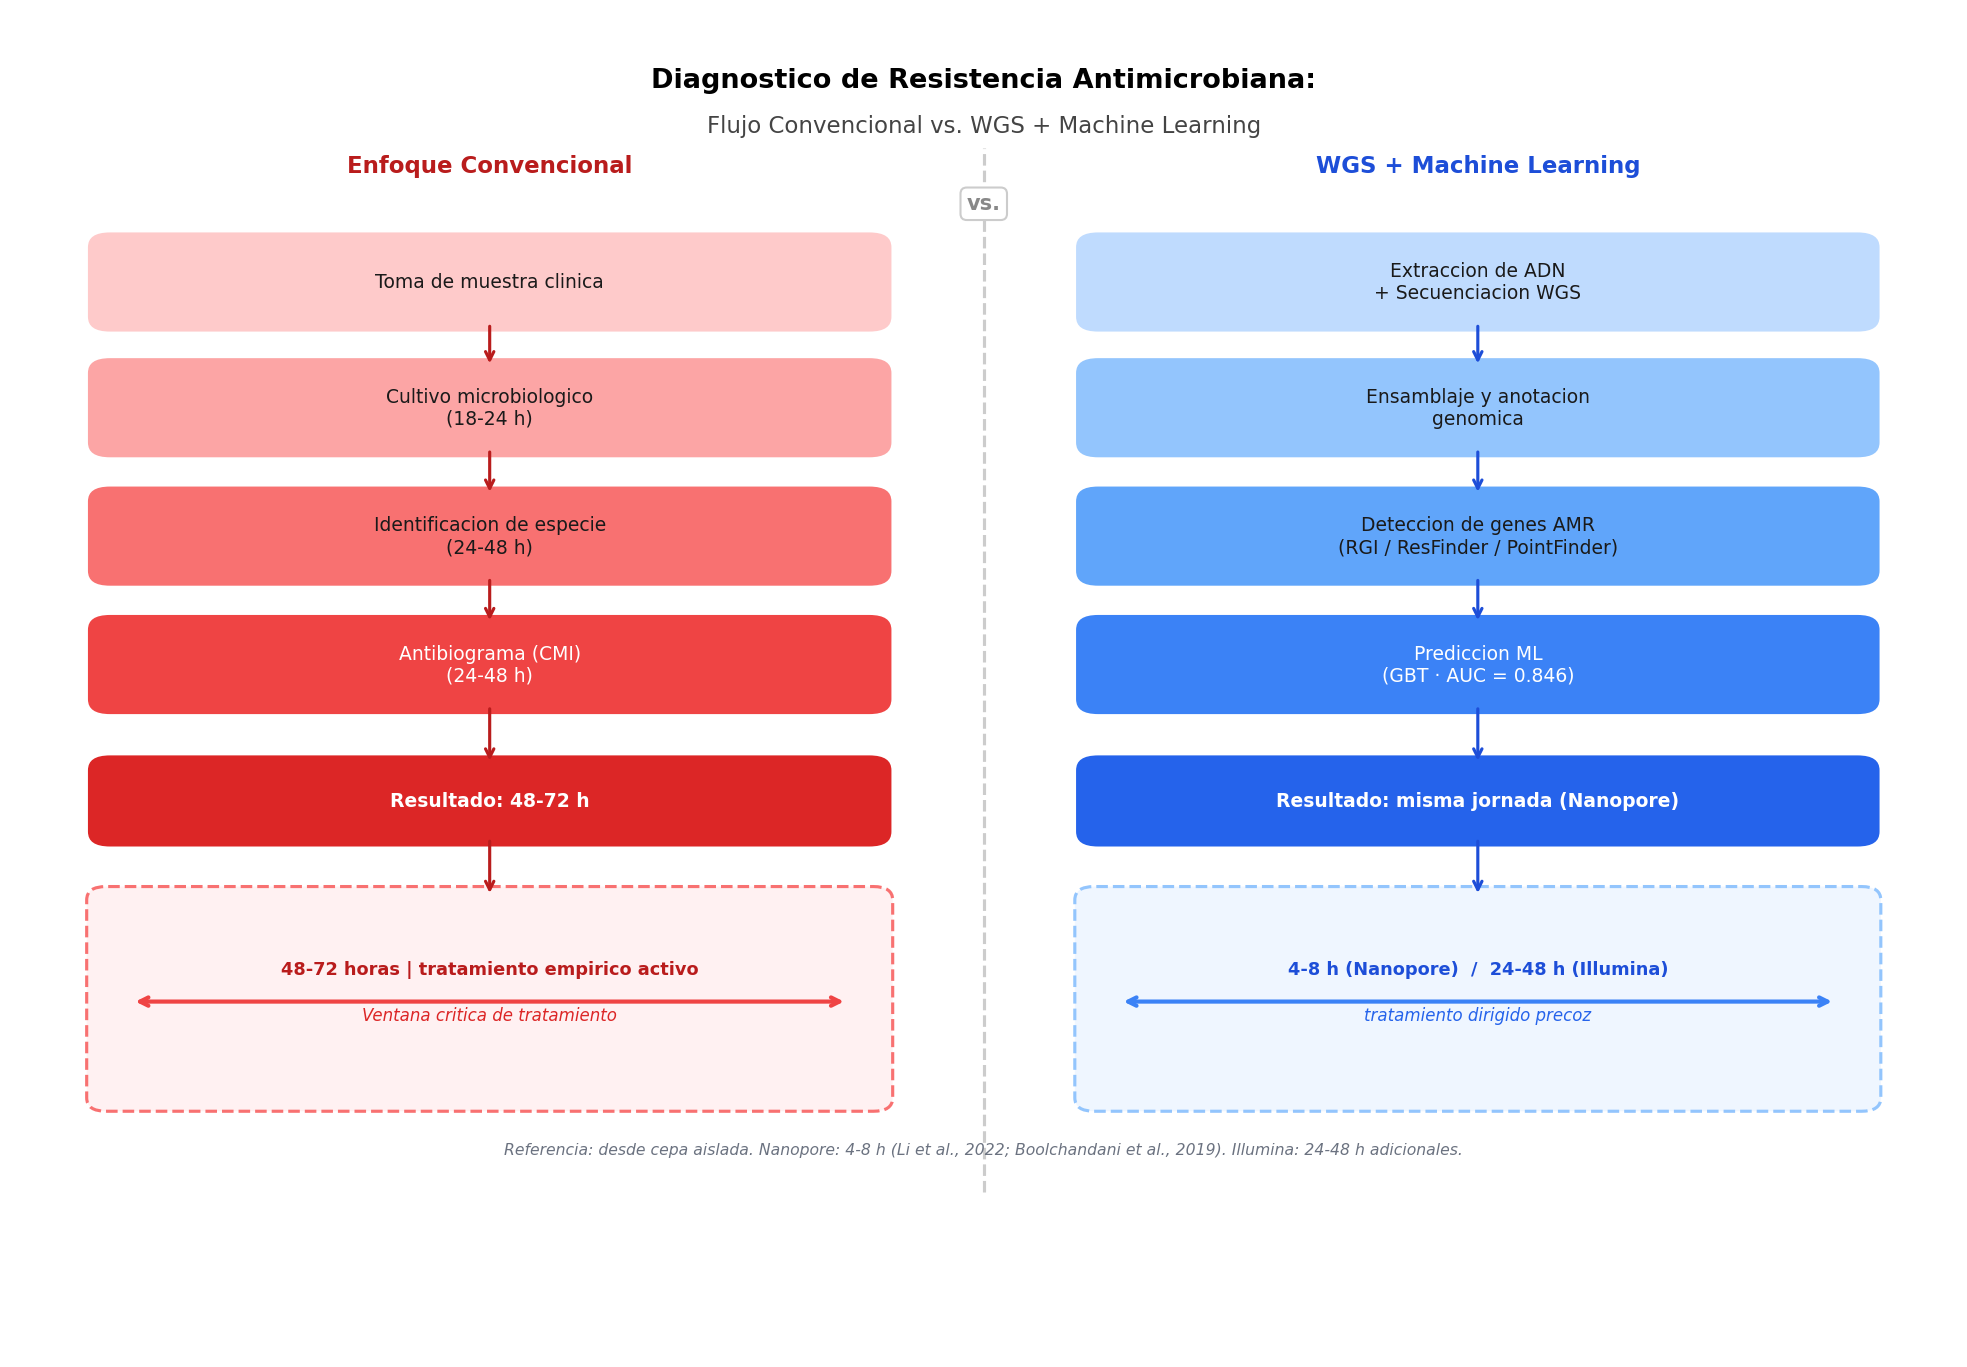
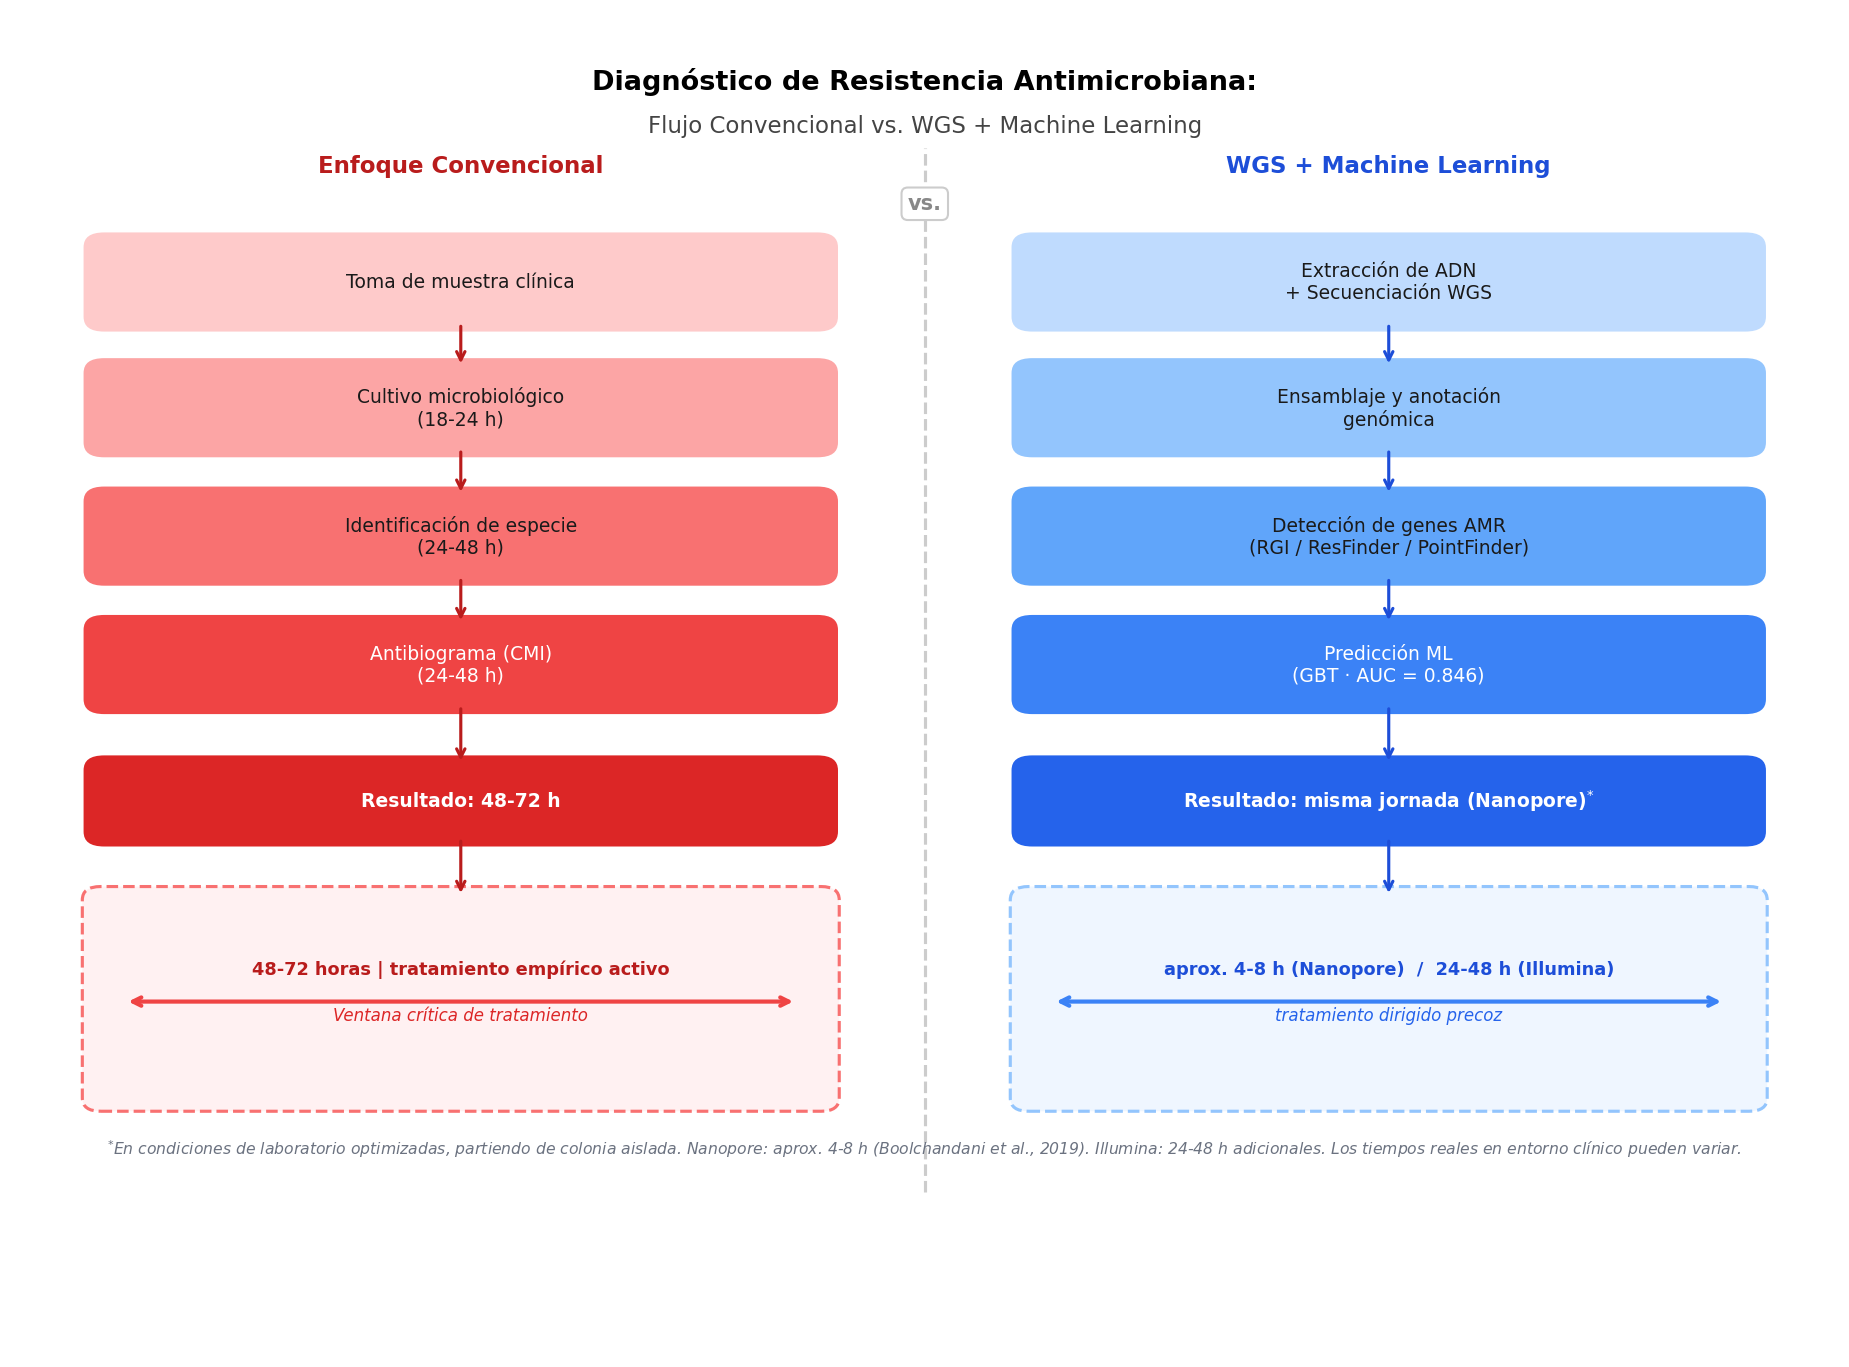
fix: figura brecha diagnóstica — tiempos WGS suavizados y nota metodológica corregida

diff --git a/scripts/ml/22_figura_flujo_revisada.py b/scripts/ml/22_figura_flujo_revisada.py
@@ -1,0 +1,150 @@
+#!/usr/bin/env python3
+"""
+22_figura_flujo_revisada.py  —  TFM AMR K. pneumoniae
+
+Genera la figura comparativa del diagnóstico AMR convencional vs. WGS + ML.
+Output: docs/figures/brecha_diagnostica.png
+
+Ejecutar desde scripts/ml/ con el entorno activado:
+  source /mnt/f/TFM_Linux/envs/amr_env/bin/activate
+  python 22_figura_flujo_revisada.py
+"""
+
+from pathlib import Path
+import matplotlib
+matplotlib.use('Agg')
+import matplotlib.pyplot as plt
+from matplotlib.patches import FancyBboxPatch
+
+here = Path(__file__).resolve().parent   # scripts/ml/
+REPO = here.parents[1]                   # repo root
+FIGS = REPO / "docs" / "figures"
+FIGS.mkdir(parents=True, exist_ok=True)
+
+plt.rcParams.update({
+    'font.family':       'DejaVu Sans',
+    'axes.spines.top':   False,
+    'axes.spines.right': False,
+    'axes.grid':         False,
+})
+
+
+def fig1_brecha_diagnostica():
+    print("\n[Fig 1] Diagrama brecha diagnóstica ...")
+
+    fig, ax = plt.subplots(figsize=(13, 9))
+    ax.set_xlim(0, 1)
+    ax.set_ylim(0, 1)
+    ax.axis('off')
+    fig.patch.set_facecolor('white')
+
+    CR = ['#FECACA', '#FCA5A5', '#F87171', '#EF4444', '#DC2626']
+    CB = ['#BFDBFE', '#93C5FD', '#60A5FA', '#3B82F6', '#2563EB']
+
+    def col_box(x, y, w, h, text, fc, fontsize=9, bold=False):
+        light = fc in CR[:3] + CB[:3]
+        tc = '#1a1a1a' if light else 'white'
+        box = FancyBboxPatch(
+            (x - w / 2, y - h / 2), w, h,
+            boxstyle="round,pad=0.008,rounding_size=0.012",
+            facecolor=fc, edgecolor='white', linewidth=1.2, zorder=3)
+        ax.add_patch(box)
+        ax.text(x, y, text, ha='center', va='center', fontsize=fontsize,
+                color=tc, fontweight='bold' if bold else 'normal',
+                zorder=4, multialignment='center')
+
+    def col_arrow(x, y1, y2, color):
+        ax.annotate('', xy=(x, y2), xytext=(x, y1),
+                    arrowprops=dict(arrowstyle='->', color=color, lw=1.5))
+
+    ax.text(0.5, 0.960, 'Diagnóstico de Resistencia Antimicrobiana:',
+            ha='center', fontsize=13, fontweight='bold', va='top')
+    ax.text(0.5, 0.925, 'Flujo Convencional vs. WGS + Machine Learning',
+            ha='center', fontsize=11, color='#444', va='top')
+    ax.text(0.245, 0.882, 'Enfoque Convencional',
+            ha='center', fontsize=11, fontweight='bold', color='#B91C1C')
+    ax.text(0.755, 0.882, 'WGS + Machine Learning',
+            ha='center', fontsize=11, fontweight='bold', color='#1D4ED8')
+
+    ax.plot([0.5, 0.5], [0.12, 0.90], color='#CCC', lw=1.5, ls='--')
+    ax.text(0.5, 0.854, 'vs.', ha='center', fontsize=10, color='#888',
+            fontweight='bold',
+            bbox=dict(boxstyle='round,pad=0.3', facecolor='white', edgecolor='#CCC'))
+
+    bw, bh = 0.40, 0.060
+    xL, xR = 0.245, 0.755
+
+    # Lado izquierdo — convencional
+    steps_L = [
+        (0.800, 'Toma de muestra clínica',              CR[0]),
+        (0.706, 'Cultivo microbiológico\n(18-24 h)',     CR[1]),
+        (0.610, 'Identificación de especie\n(24-48 h)',  CR[2]),
+        (0.514, 'Antibiograma (CMI)\n(24-48 h)',         CR[3]),
+    ]
+    for y, txt, fc in steps_L:
+        col_box(xL, y, bw, bh, txt, fc)
+    for i in range(len(steps_L) - 1):
+        col_arrow(xL, steps_L[i][0] - bh / 2, steps_L[i + 1][0] + bh / 2, '#B91C1C')
+
+    col_box(xL, 0.412, bw, 0.054, 'Resultado: 48-72 h', CR[4], bold=True)
+    col_arrow(xL, steps_L[-1][0] - bh / 2, 0.412 + 0.027, '#B91C1C')
+
+    ax.add_patch(FancyBboxPatch(
+        (xL - 0.20, 0.188), 0.40, 0.152,
+        boxstyle="round,pad=0.008,rounding_size=0.01",
+        facecolor='#FFF1F2', edgecolor='#F87171', linewidth=1.5, ls='--', zorder=2))
+    ax.annotate('', xy=(xL + 0.185, 0.262), xytext=(xL - 0.185, 0.262),
+                arrowprops=dict(arrowstyle='<->', color='#EF4444', lw=2))
+    ax.text(xL, 0.282, '48-72 horas | tratamiento empírico activo',
+            ha='center', fontsize=8.5, color='#B91C1C', fontweight='bold')
+    ax.text(xL, 0.248, 'Ventana crítica de tratamiento',
+            ha='center', fontsize=8, color='#DC2626', style='italic')
+    col_arrow(xL, 0.412 - 0.027, 0.340, '#B91C1C')
+
+    # Lado derecho — WGS + ML
+    steps_R = [
+        (0.800, 'Extracción de ADN\n+ Secuenciación WGS',                 CB[0]),
+        (0.706, 'Ensamblaje y anotación\ngenómica',                        CB[1]),
+        (0.610, 'Detección de genes AMR\n(RGI / ResFinder / PointFinder)', CB[2]),
+        (0.514, 'Predicción ML\n(GBT · AUC = 0.846)',                      CB[3]),
+    ]
+    for y, txt, fc in steps_R:
+        col_box(xR, y, bw, bh, txt, fc)
+    for i in range(len(steps_R) - 1):
+        col_arrow(xR, steps_R[i][0] - bh / 2, steps_R[i + 1][0] + bh / 2, '#1D4ED8')
+
+    col_box(xR, 0.412, bw, 0.054,
+            'Resultado: misma jornada (Nanopore)$^{*}$',
+            CB[4], bold=True)
+    col_arrow(xR, steps_R[-1][0] - bh / 2, 0.412 + 0.027, '#1D4ED8')
+
+    ax.add_patch(FancyBboxPatch(
+        (xR - 0.20, 0.188), 0.40, 0.152,
+        boxstyle="round,pad=0.008,rounding_size=0.01",
+        facecolor='#EFF6FF', edgecolor='#93C5FD', linewidth=1.5, ls='--', zorder=2))
+    ax.annotate('', xy=(xR + 0.185, 0.262), xytext=(xR - 0.185, 0.262),
+                arrowprops=dict(arrowstyle='<->', color='#3B82F6', lw=2))
+    ax.text(xR, 0.282, 'aprox. 4-8 h (Nanopore)  /  24-48 h (Illumina)',
+            ha='center', fontsize=8.5, color='#1D4ED8', fontweight='bold')
+    ax.text(xR, 0.248, 'tratamiento dirigido precoz',
+            ha='center', fontsize=8, color='#2563EB', style='italic')
+    col_arrow(xR, 0.412 - 0.027, 0.340, '#1D4ED8')
+
+    ax.text(
+        0.5, 0.148,
+        '$^{*}$En condiciones de laboratorio optimizadas, partiendo de colonia aislada. '
+        'Nanopore: aprox. 4-8 h (Boolchandani et al., 2019). Illumina: 24-48 h adicionales. '
+        'Los tiempos reales en entorno clínico pueden variar.',
+        ha='center', fontsize=7.5, color='#6B7280', style='italic')
+
+    plt.tight_layout(pad=0.3)
+    out = FIGS / "brecha_diagnostica.png"
+    fig.savefig(out, dpi=150, bbox_inches='tight', facecolor='white')
+    plt.close()
+    print(f"  Guardado: {out}")
+
+
+if __name__ == '__main__':
+    print(f"REPO : {REPO}")
+    print(f"FIGS : {FIGS}")
+    fig1_brecha_diagnostica()
